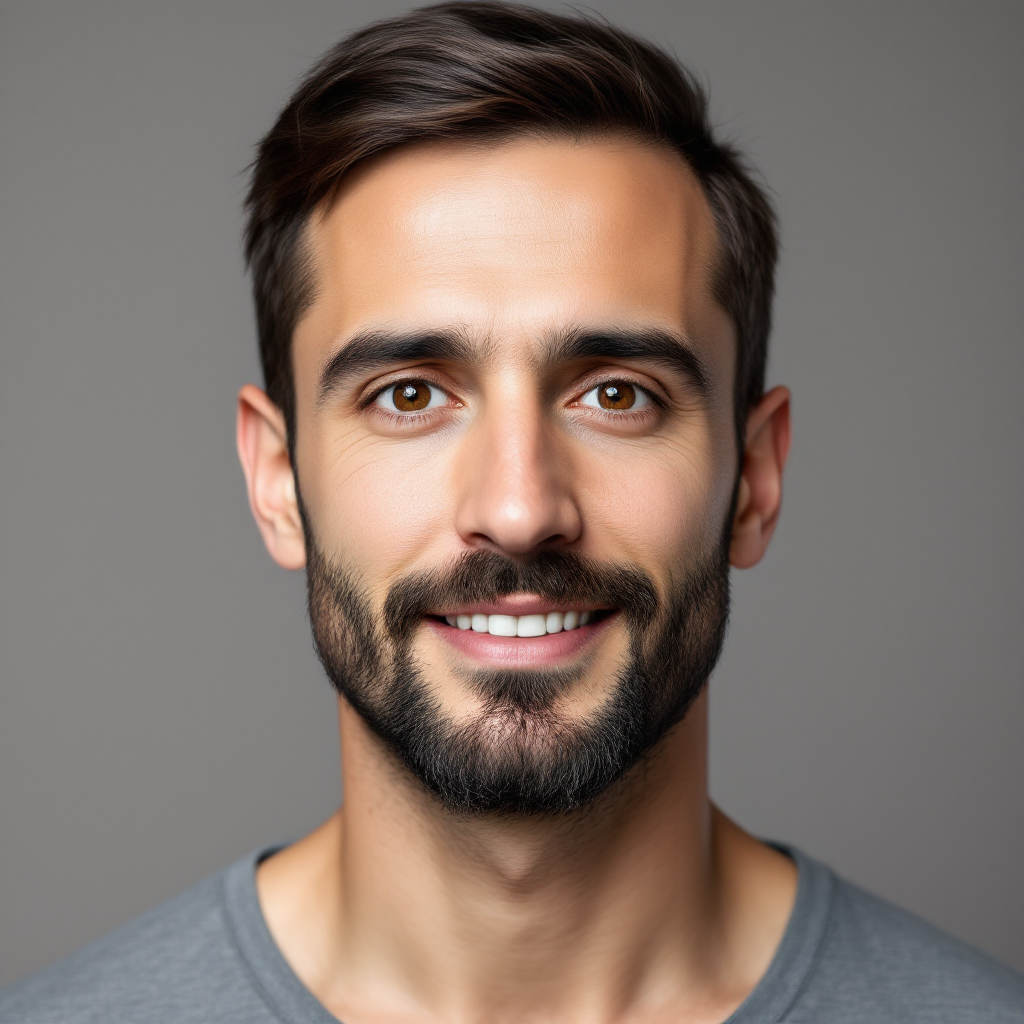
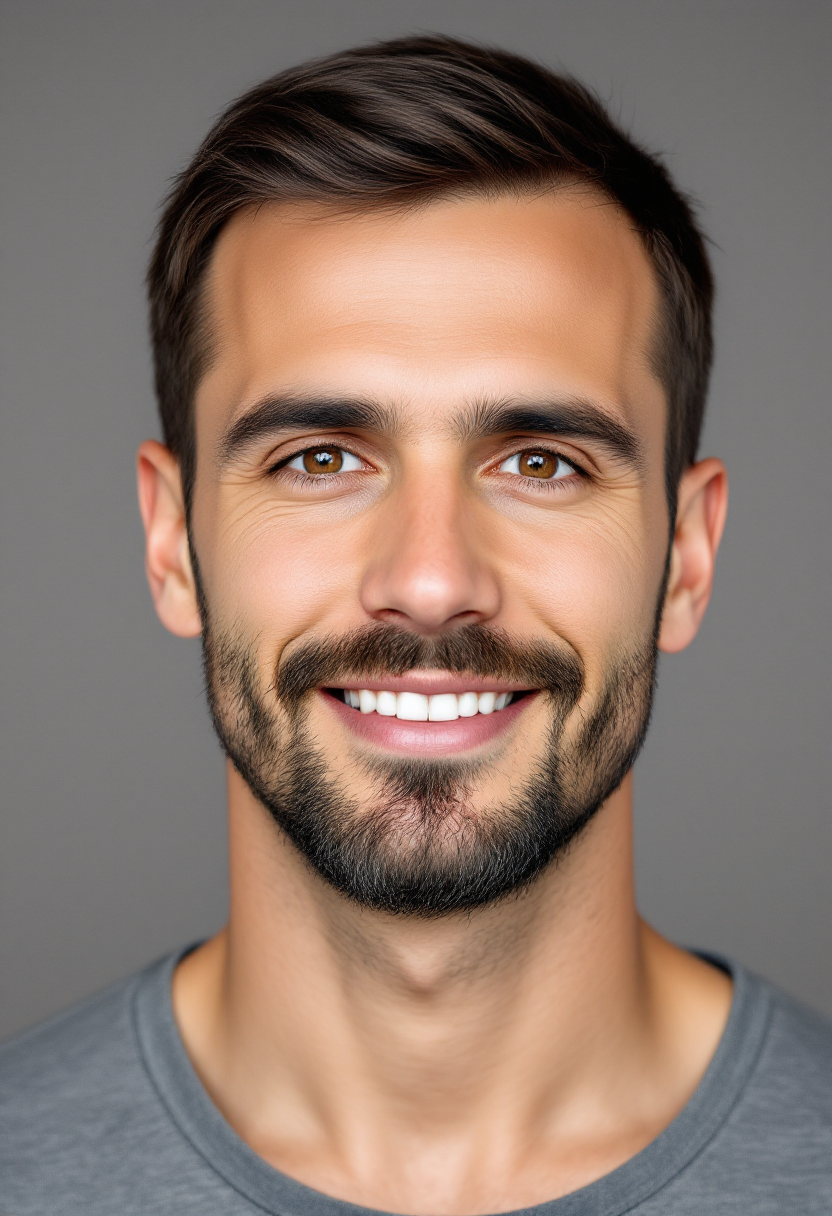
Flux 1.1 Pro: regenerate capsules in 2:3 full-body + adjust thumb rendering

diff --git a/public/app.css b/public/app.css
@@ -105,8 +105,8 @@ a{color:inherit;text-decoration:none}
 }
 .card:hover{transform:translateY(-2px);box-shadow:0 16px 46px rgba(17,24,39,.12)}
 
-.thumb{width:100%;aspect-ratio: 1 / 1;background:linear-gradient(180deg,#fff,#f3f4f6);position:relative}
-.thumb img{width:100%;height:100%;object-fit:cover;display:block}
+.thumb{width:100%;aspect-ratio: 2 / 3;background:linear-gradient(180deg,#fff,#f3f4f6);position:relative}
+.thumb img{width:100%;height:100%;object-fit:contain;display:block}
 
 .heart{
   position:absolute;top:10px;right:10px;
